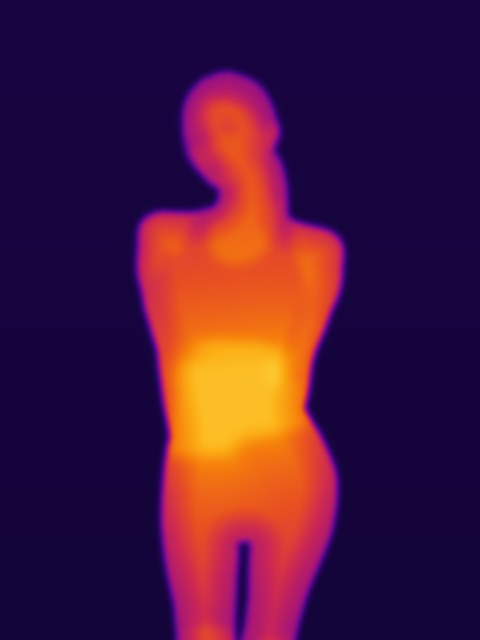
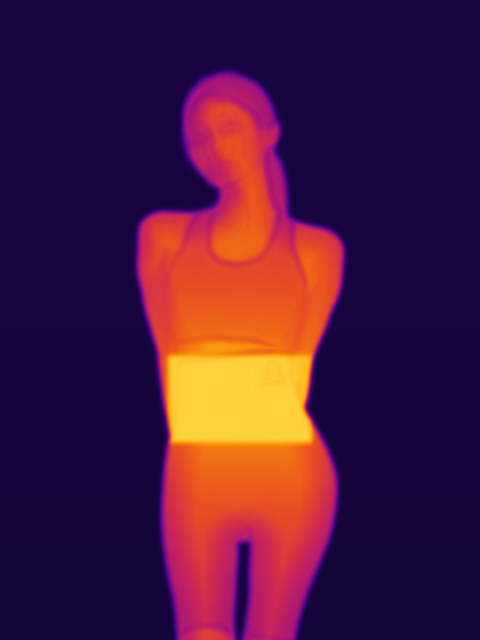
열화상 연출에 밴드 형태가 보이도록 수정, 대표 스토리 '발굴' 표현 삭제

diff --git a/index.html b/index.html
@@ -658,7 +658,7 @@ section.info-sec{background:var(--bg-soft);padding:56px 20px 60px}
   <h2 class="fd-title rv-up">"여자는 몸이 따뜻해야 한다"<br>엄마가 수백 번 하던 말이었어요</h2>
   <p class="fd-body rv-up">어릴 때부터 엄마는 배를 차게 하지 말라고<br>수없이 말했어요. 그 말을 흘려듣다가<br>손발과 배가 늘 차가워 오래 고생했고,<br><strong>네 번의 출산 이후로는 더 심해졌죠.</strong></p>
   <p class="fd-body rv-up">4년 동안 엄마들, 어르신들과 건강 챌린지를<br>함께하며 알게 됐어요. 아무리 잘 먹고 운동해도<br>기본은 몸을 따뜻하게 지키는 일이라는 걸요.</p>
-  <p class="fd-body rv-up">내 딸들은 나처럼 고생하지 않았으면 하는 마음으로<br>가장 간편하게 체온을 지킬 방법을 찾다가<br>이 밴드를 발굴했습니다.</p>
+  <p class="fd-body rv-up">내 딸들은 나처럼 고생하지 않았으면 하는 마음으로<br>가장 간편하게 체온을 지킬 방법을 찾다가<br>이 밴드를 선보이게 되었습니다.</p>
   <p class="fd-sign rv-up">마이온도 대표 한해이</p>
   <img class="fd-word" src="img/logo_text_white.png" alt="myONDO">
   
